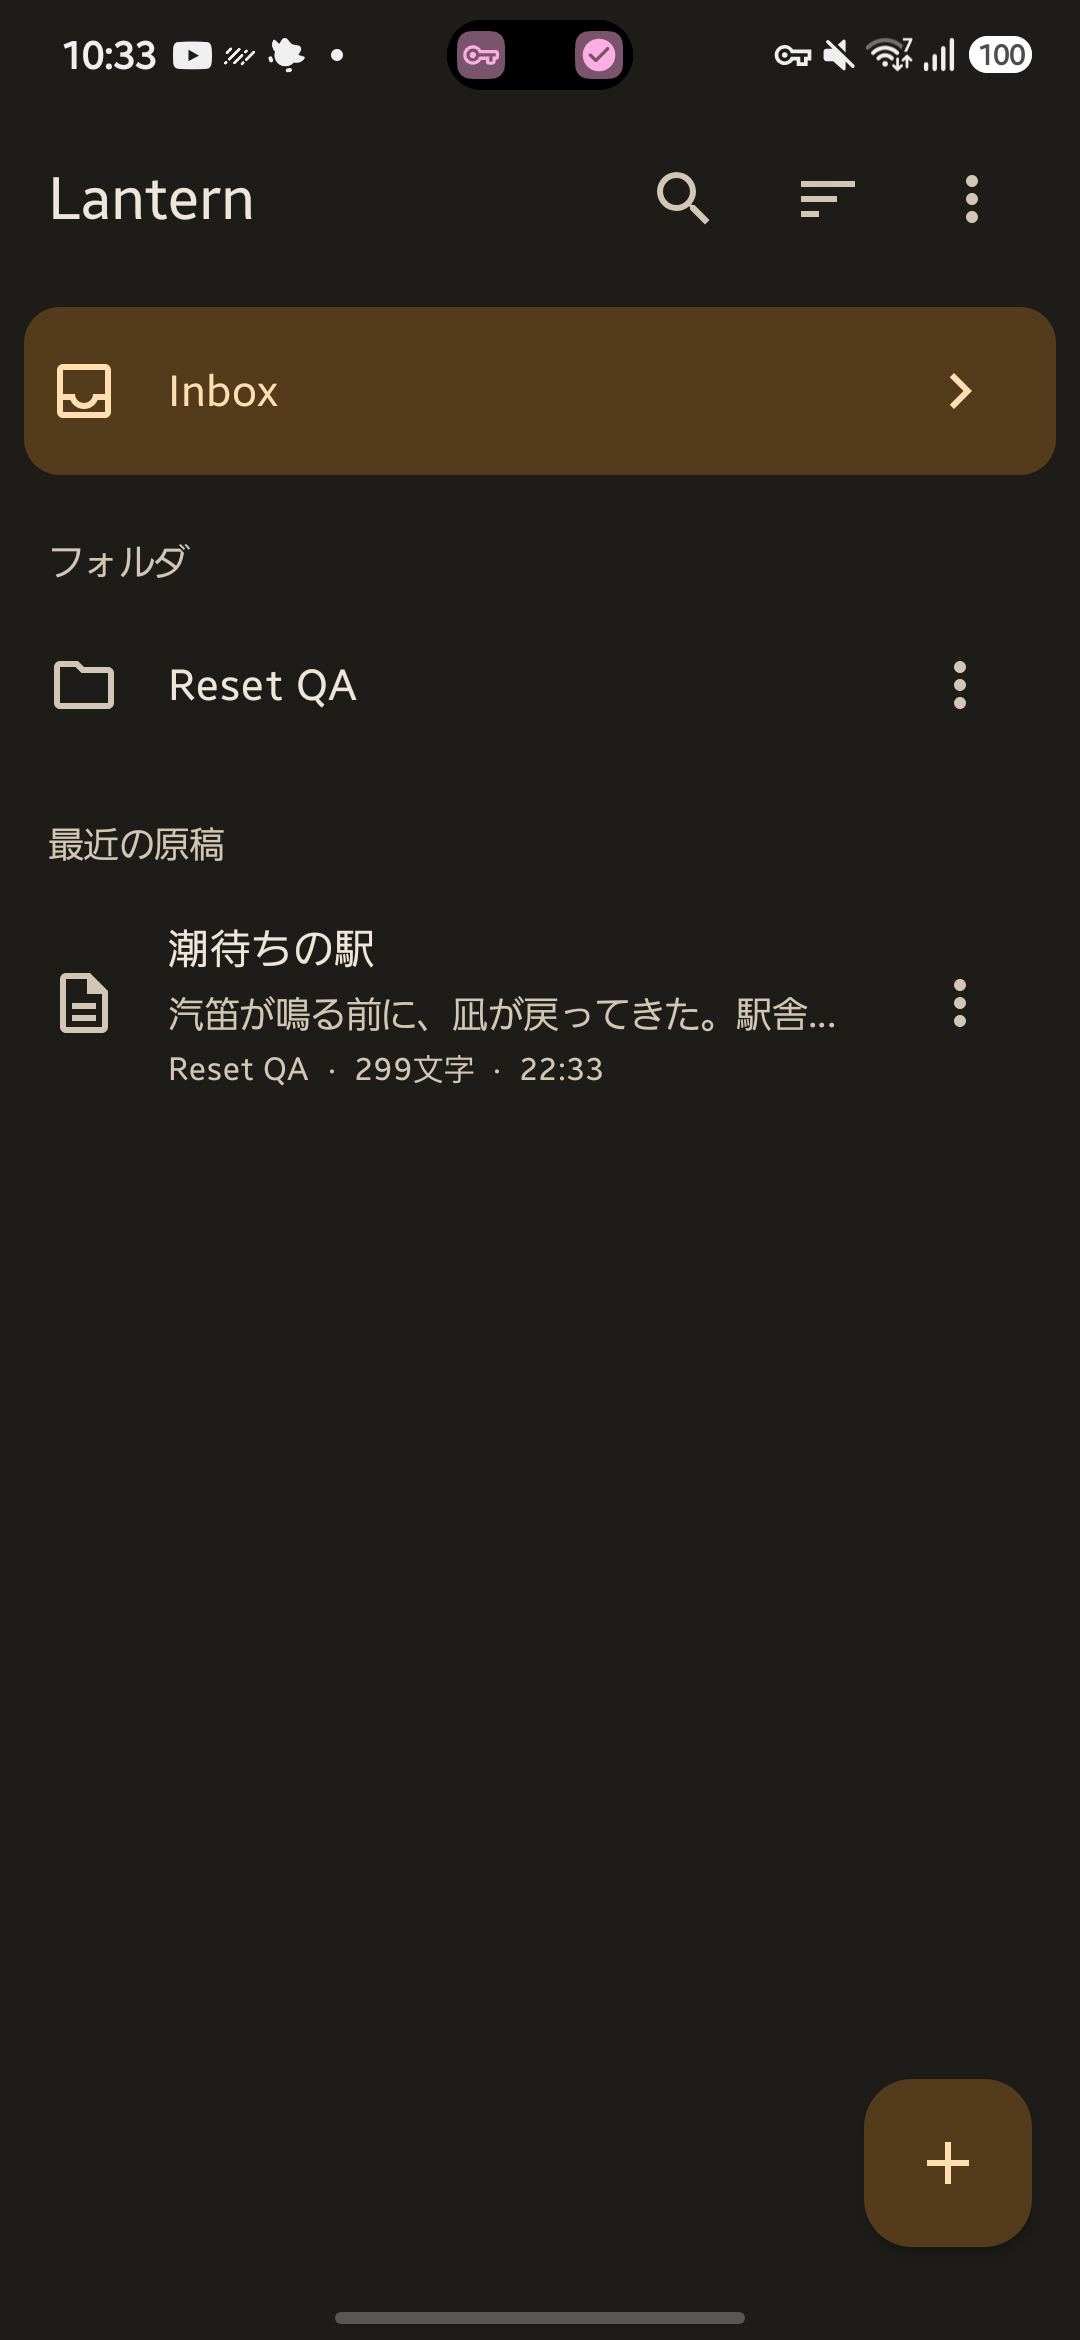
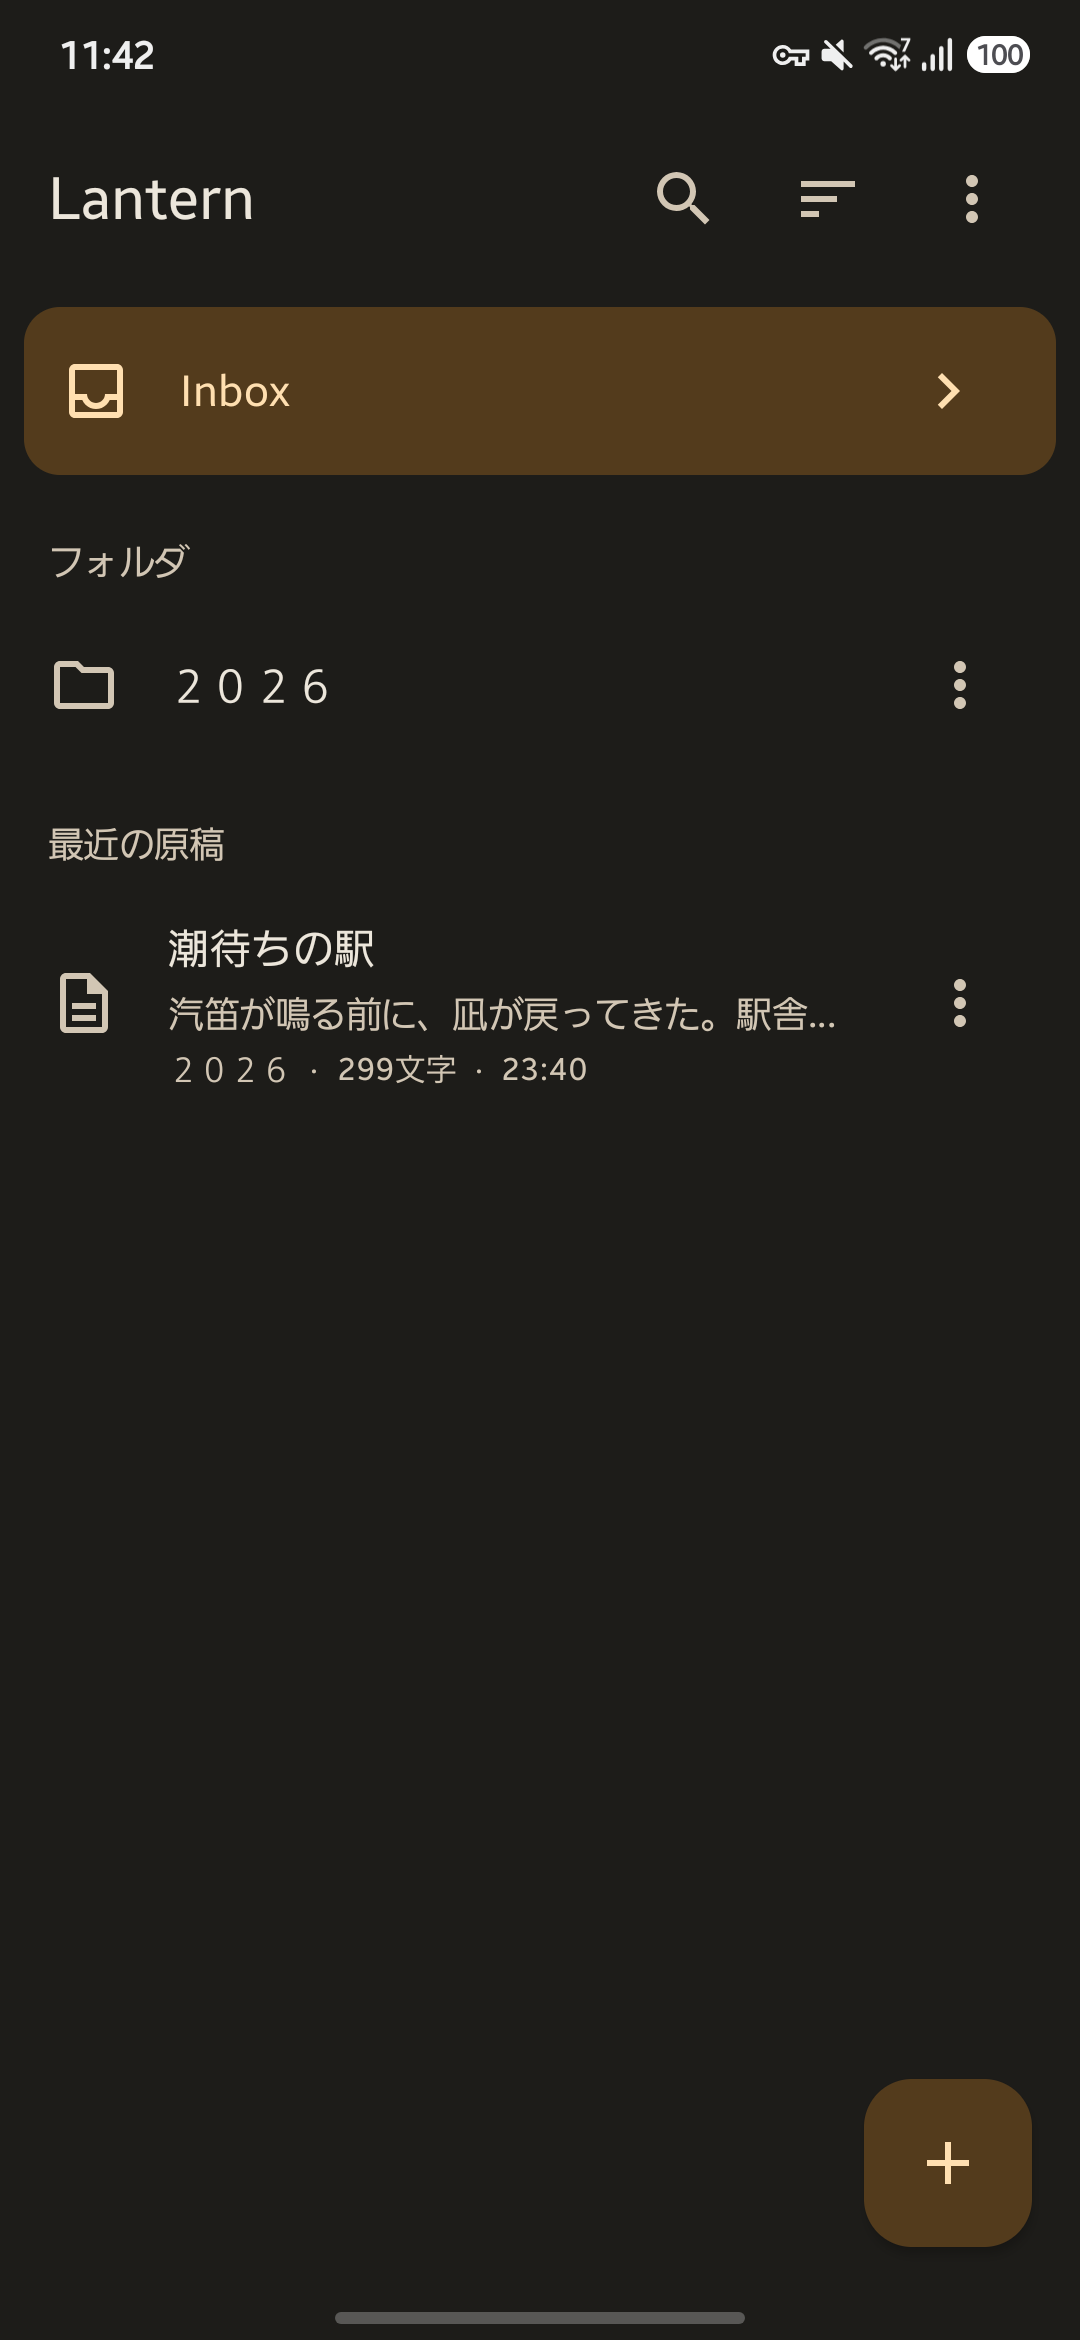
Finalize licensing and first launch defaults

diff --git a/app/src/main/java/com/sider/lantern/WritingPreferences.kt b/app/src/main/java/com/sider/lantern/WritingPreferences.kt
@@ -33,7 +33,7 @@ internal data class SavedEditorPosition(val caret: Int, val scroll: Int) {
     fun selectionIn(body: String): EditorPosition = graphemeOffset(body, caret).let { EditorPosition(it, it) }
 }
 
-internal class WritingPreferences(private val store: DataStore<Preferences>) {
+internal class WritingPreferences(private val store: DataStore<Preferences>, private val defaultLantern: Boolean = false) {
     private val categoryKey = stringPreferencesKey("toolbar_category")
     private val data = store.data.catch {
         if (it is IOException) emit(emptyPreferences()) else throw it
@@ -49,7 +49,7 @@ internal class WritingPreferences(private val store: DataStore<Preferences>) {
 
     val customization = data.map { values ->
         Customization(
-            lantern = values[stringPreferencesKey("palette")] == "lantern",
+            lantern = values[stringPreferencesKey("palette")]?.let { it == "lantern" } ?: defaultLantern,
             showRecent = values[stringPreferencesKey("show_recent")] != "false",
             left = SwipeAction.from(values[stringPreferencesKey("swipe_left")]),
             right = SwipeAction.from(values[stringPreferencesKey("swipe_right")]),
@@ -91,11 +91,13 @@ internal class WritingPreferences(private val store: DataStore<Preferences>) {
             backedUpKeys.forEach { key ->
                 values[stringPreferencesKey(key)]?.let { put(key, it) }
             }
+            if ("palette" !in this) put("palette", if (defaultLantern) "lantern" else "dynamic")
         }
     }
 
     suspend fun restore(settings: Map<String, String>) {
         store.edit { values ->
+            if ("palette" !in settings && settings.isNotEmpty()) values[stringPreferencesKey("palette")] = "dynamic"
             WritingSetting.entries.forEach { setting ->
                 settings[setting.preference.name]?.toBooleanStrictOrNull()?.let { values[setting.preference] = it }
             }

diff --git a/app/src/androidTest/java/com/sider/lantern/WritingDeviceTest.kt b/app/src/androidTest/java/com/sider/lantern/WritingDeviceTest.kt
@@ -21,6 +21,29 @@ import org.junit.runner.RunWith
 
 @RunWith(AndroidJUnit4::class)
 class WritingDeviceTest {
+    @Test fun paletteDefaultPreservesExistingAndBackedUpChoices() = runBlocking {
+        val context = ApplicationProvider.getApplicationContext<Context>()
+        val file = File(context.cacheDir, "palette-${UUID.randomUUID()}.preferences_pb")
+        val job = Job()
+        val store = PreferenceDataStoreFactory.create(scope = CoroutineScope(Dispatchers.IO + job)) { file }
+        try {
+            val fresh = WritingPreferences(store, defaultLantern = true)
+            val existing = WritingPreferences(store)
+            assertTrue(fresh.customization.first().lantern)
+            assertFalse(existing.customization.first().lantern)
+            assertEquals("lantern", fresh.backup()["palette"])
+            fresh.restore(mapOf("palette" to "dynamic"))
+            assertFalse(fresh.customization.first().lantern)
+            fresh.restore(mapOf("palette" to "lantern"))
+            assertTrue(fresh.customization.first().lantern)
+            fresh.restore(mapOf("appearance" to "system"))
+            assertFalse(fresh.customization.first().lantern)
+        } finally {
+            job.cancelAndJoin()
+            file.delete()
+        }
+    }
+
     @Test fun nativeCompletionDistinguishesCompositionAndKeepsSingleStepHistory() {
         ActivityScenario.launch(MainActivity::class.java).use { scenario ->
             scenario.onActivity { activity ->

diff --git a/app/src/main/java/com/sider/lantern/LanternModel.kt b/app/src/main/java/com/sider/lantern/LanternModel.kt
@@ -37,7 +37,9 @@ internal class LanternModel(application: Application) : AndroidViewModel(applica
     private val database = LibraryDatabase.open(application)
     val library = LibraryRepository(database, external = ExternalLibrary(application))
     val recovery = DraftRecovery(File(application.filesDir, "draft-checkpoints"))
-    val writing = WritingPreferences(application.writingDataStore)
+    val writing = WritingPreferences(application.writingDataStore,
+        application.getSharedPreferences("locale", android.content.Context.MODE_PRIVATE)
+            .getBoolean("new_default_lantern", false))
     val writingOptions = writing.options.stateIn(viewModelScope, SharingStarted.Eagerly, null)
     val writingCategory = writing.category.stateIn(viewModelScope, SharingStarted.Eagerly, null)
     val customization = writing.customization.stateIn(viewModelScope, SharingStarted.Eagerly, Customization())

diff --git a/app/src/main/java/com/sider/lantern/MainActivity.kt b/app/src/main/java/com/sider/lantern/MainActivity.kt
@@ -55,6 +55,7 @@ class MainActivity : ComponentActivity() {
         if (!localePrefs.contains("initialized")) {
             val firstInstall = !base.getDatabasePath("lantern.db").exists() && !localePrefs.contains("language")
             if (firstInstall) {
+                localePrefs.edit { putBoolean("new_default_lantern", true) }
                 if (Build.VERSION.SDK_INT >= 33) {
                     val manager = base.getSystemService(LocaleManager::class.java)
                     if (manager.applicationLocales.isEmpty) manager.applicationLocales = LocaleList.forLanguageTags("ja")

diff --git a/app/src/main/java/com/sider/lantern/WritingSettingsScreen.kt b/app/src/main/java/com/sider/lantern/WritingSettingsScreen.kt
@@ -245,6 +245,7 @@ internal fun LanternLicensesScreen(onBack: () -> Unit) {
     val context = LocalContext.current
     SettingsLayout(stringResource(R.string.licenses), onBack) {
         for ((name, file) in listOf(
+            "Lantern — MIT License" to "lantern-mit.txt",
             "AndroidX, Kotlin, kotlinx" to "apache-2.0.txt",
             "Noto Sans JP" to "noto-sans-jp-ofl.txt",
             "Noto Serif JP" to "noto-serif-jp-ofl.txt",

diff --git a/BRAND_LICENSE.md b/BRAND_LICENSE.md
@@ -1,0 +1,15 @@
+# ブランド素材の権利 / Brand assets
+
+LanternのソースコードはMIT Licenseで提供されます。以下の公式ロゴおよびそこから派生したブランド素材にはMIT Licenseは適用されず、権利は著作権者に留保されます。
+
+- `brand/Lantern.png`
+- `app/src/main/res/drawable-nodpi/lantern_brand.png`
+- `app/src/main/res/drawable/lantern_icon_mono.xml`
+- 上記素材から生成・表示されるランチャー、Adaptive、Round、モノクロ、スプラッシュおよびアプリ情報画面のアイコン
+- READMEに表示される公式ロゴと、その複製・派生素材
+
+権利者の許諾なく、これらの素材を他製品へ転用、改変、再利用、独立して再配布することや、非公式フォーク・改変版で使用すること、公式製品と誤認させる使用は許諾されません。スクリーンショットに表示された公式アイコンも同様です。
+
+MIT Licenseに基づくソースコードの利用、改変、再配布は制限されません。フォークでは `drawable-nodpi/lantern_brand.png` を削除または独自画像へ差し替え、`drawable/lantern_icon_mono.xml` を独自素材へ差し替えてください。公式画像を削除した場合、`drawable/lantern_brand.xml` の汎用代替画像でビルドできます。
+
+The MIT License applies to Lantern source code. The official logo and derivatives identified above are excluded and all rights are reserved by the copyright holder. Permission is not granted to reuse, modify, redistribute separately, use in other products or unofficial forks, or imply official endorsement without permission. This does not restrict rights granted by the MIT License to use, modify, and redistribute the source code. Forks may remove or replace the official bitmap and replace the monochrome resource; a generic fallback is provided for builds without the official bitmap.

diff --git a/README.en.md b/README.en.md
@@ -22,4 +22,4 @@ Install JDK 17 and Android SDK Platform 37.1 and Build-Tools 36.0.0, set `JAVA_H
 
 For release signing, supply an existing key using `LANTERN_KEYSTORE`, `LANTERN_STORE_PASSWORD`, `LANTERN_KEY_ALIAS`, and `LANTERN_KEY_PASSWORD` as environment variables. Keep the key and passwords outside the repository. If an installed debug build has a different signature, first export and verify a backup, then uninstall the debug build, install the signed release, and restore the backup. Uninstalling removes app-local data.
 
-See [privacy](PRIVACY.md), [third-party notices](THIRD_PARTY_NOTICES.md), and [issues](https://github.com/sider51/Lantern/issues). The Lantern source license has not been chosen.
+See [privacy](PRIVACY.md), [third-party notices](THIRD_PARTY_NOTICES.md), and [issues](https://github.com/sider51/Lantern/issues). Source code is available under the [MIT License](LICENSE). Official logos and brand assets are excluded and all rights are reserved as described in [BRAND_LICENSE.md](BRAND_LICENSE.md).

diff --git a/README.md b/README.md
@@ -35,4 +35,4 @@ Debug版と正式版の署名が異なる場合、上書きインストールで
 
 [プライバシー](PRIVACY.md) · [第三者ライセンス](THIRD_PARTY_NOTICES.md) · [不具合の報告](https://github.com/sider51/Lantern/issues)
 
-Lantern本体のソフトウェアライセンスは未決定です。
+ソースコードは [MIT License](LICENSE) です。公式ロゴとブランド素材は対象外で、権利を留保します。対象範囲は [ブランド素材の権利](BRAND_LICENSE.md) を参照してください。
